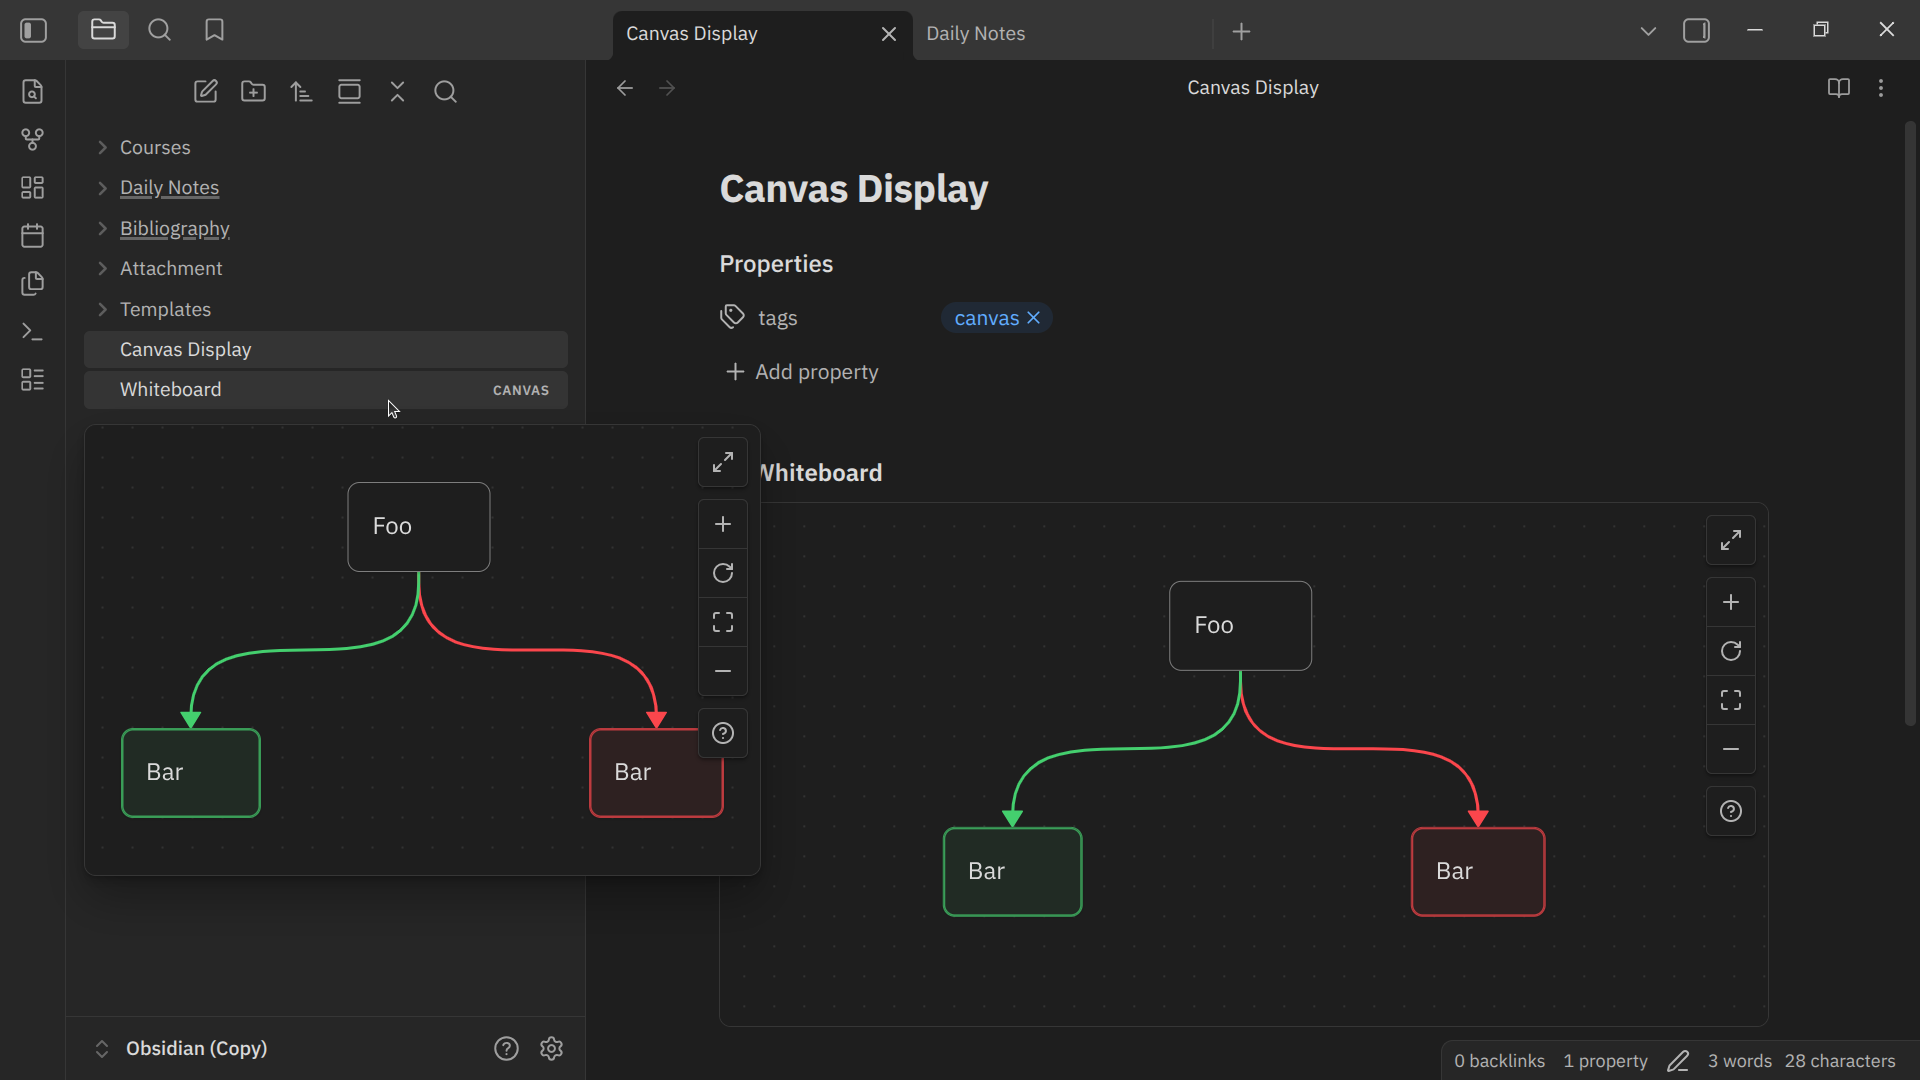
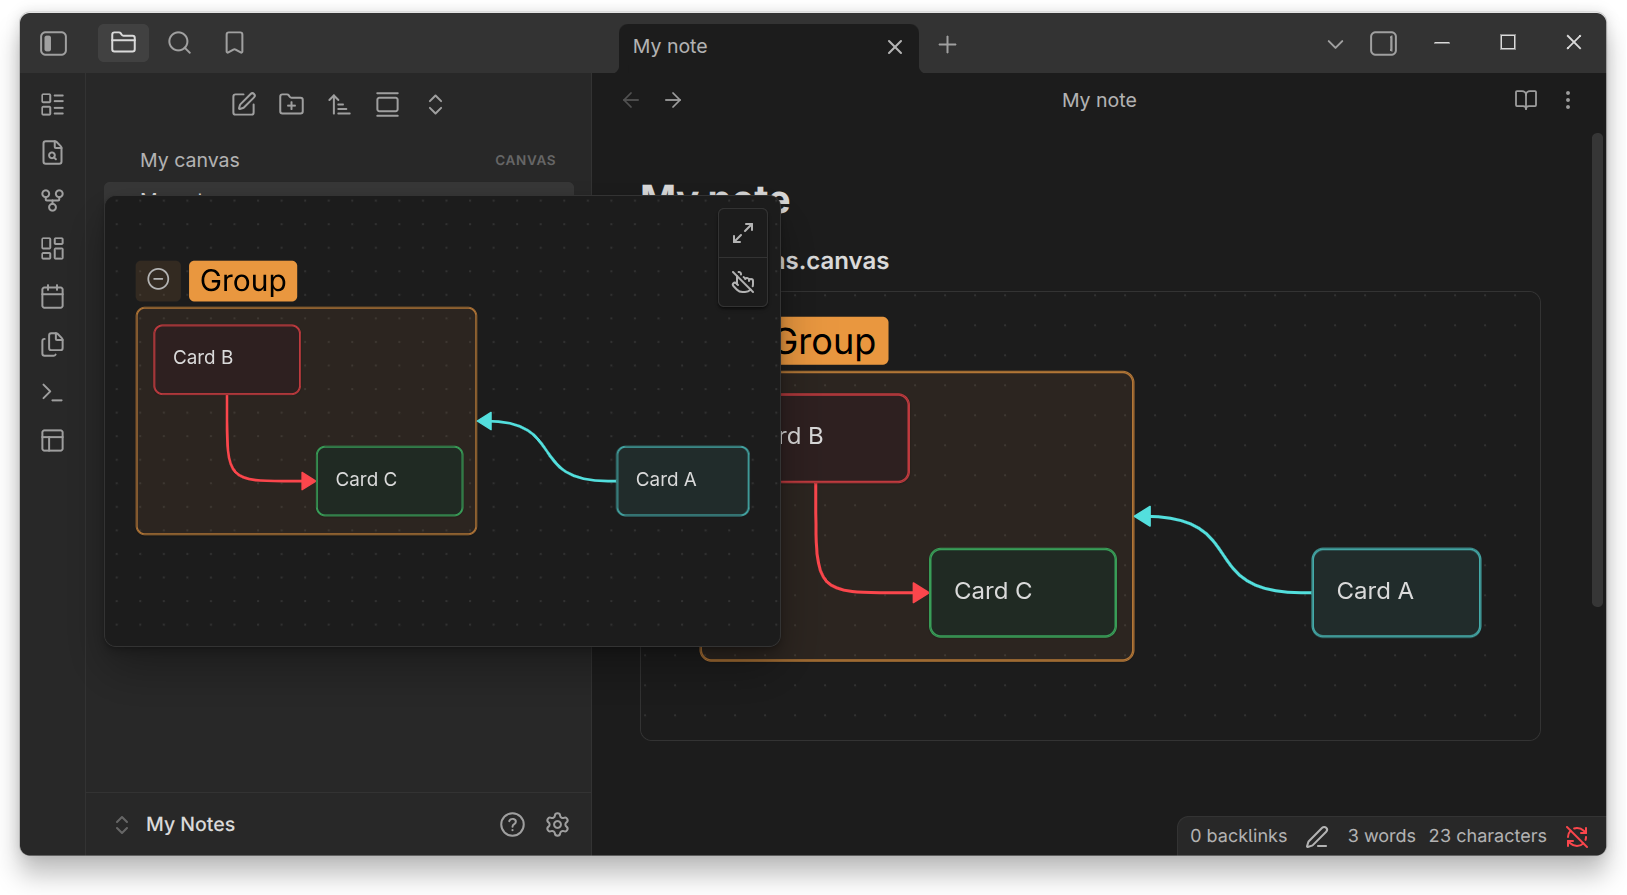
docs: update README for 1.0.0

diff --git a/README.md b/README.md
@@ -10,90 +10,255 @@ Give your embedded canvas better display and interactivity.
 >
 > Although this plugin already fulfills the need for a full preview of embedded canvas, I still strongly support including this feature as a built-in feature. Visit [here][embedded-canvas-fr] to give your support.
 
-## 🚀 Features
+> [!WARNING]
+>
+> This plugin uses monkey patch and accesses internal API to unlock features that cannot be provided using public API alone.
 
-- Give embedded canvas the same look as canvas view.
-- Navigate using panning and zooming to move across the canvas.
-- Adjust the height of the embedded canvas in the note.
-- Work on both page preview and canvas.
-- Display embedded canvas on exported PDF.
-- Support [Advanced Canvas][advanced-canvas] plugin.
+## Overview
 
-## 📦 Installation
+- **Canvas embedding**: Embed canvas or specific card while preserving original canvas view interface.
+- **Hover preview**: Preview canvas by hovering the cursor over a link or file.
+- **Basic interaction**: Navigate using panning and zooming across the canvas.
+- **Advanced canvas support**: Support advanced customization from [Advanced Canvas][advanced-canvas].
 
-- Manual
-    - Create a folder named `better-embedded-canvas` under `YOUR_VAULT_NAME/.obsidian/plugins`.
-    - Place `manifest.json`, `main.js`, and `style.css` from the latest release into the folder.
-    - Enable it through the "Community plugin" setting tab.
-- In-app
-    - Open settings.
-    - Choose "Community plugins" setting tab.
-    - Turn off "Restricted mode" if it was enabled before.
-    - Click "Browse" at "Community plugins" item.
-    - Type "Better Embedded Canvas" in the search box.
-    - Install and enable it.
-- Using [BRAT][].
+## Installation
 
-## ✍ Usage
+### In-app installation
 
-### Embedding
+1. Open settings.
+2. Choose "Community plugins" setting tab.
+3. Turn off "Restricted mode" if it was enabled before.
+4. Click "Browse" at "Community plugins" item.
+5. Type "Better Embedded Canvas" in the search box.
+6. Install and enable it.
 
-Use internal link prefixed with an exclamation mark (`!`) to embed a canvas. For example:
+### Manual installation
+
+1. Create a folder named `better-embedded-canvas` under `YOUR_VAULT_NAME/.obsidian/plugins`.
+2. Place `manifest.json`, `main.js`, and `style.css` from the latest release into the folder.
+3. Enable it through the "Community plugin" setting tab.
+
+### Using [BRAT][].
+
+## Features and Usage
+
+### Embed canvas in a note
+
+![embed-in-notes.gif](./assests/embed-in-notes.gif)
+
+You can embed a canvas in a note using the same way as [embedding notes and other files][obsidian-help-embeds]. To do that, use internal link prefixed with an exclamation mark (`!`):
 
 ```markdown
 ![[My canvas.canvas]]
 ```
 
-You can adjust the height of the canvas by adding a bar (`|`) and number to the link destination. For example:
+#### Adjust the height
+
+To adjust the height of an embedded canvas, add a vertical bar (`|`) followed by the length of the height:
 
 ```markdown
 ![[My canvas.canvas|500]]
 ```
 
-> [!Note]
+By default, the height will be adjusted to 300. Therefore, `![[My canvas.canvas]]` has the same result as `![[My canvas.canvas|300]]`.
+
+> [!NOTE]
 >
-> The minimum height of an embedded canvas is 300. The height adjusted below 300 will be rounded up to 300.
+> Currently, Better Embedded Canvas limits the minimum height to 300. Any canvas height adjusted to less than 300 will be rounded up to 300. Therefore, `![[My canvas.canvas|200]]` has the same result as `![[My canvas.canvas|300]]`.
 
-### Interaction
+#### Change the title
 
-You can interact with an embedded canvas in the same way as you do with a full canvas view. If you prefer no interaction, you can disable it by selecting hand pointer iconed button in the upper-right corner.
+The title of an embedded canvas is located at the top of the embed, prefixed with canvas icon (![lucide-layout-dashboard]).
 
-![no-interaction-canvas.png](./assests/no-interaction-canvas.png)
+By default, the title is the name of the canvas file. To change it, add a vertical bar (`|`) followed by the replacement title:
 
-To learn how to interact with canvas, refer [here][canvas-help].
+```markdown
+![[My canvas.canvas|My diagram]]
+```
 
-### Canvas name
+If you want to change the title while also adjusting the height, place the replacement title first then the height, separated by vertical bar (`|`):
 
-By default, the name of the embedded canvas is displayed as embed title. You can hide it by going to **Settings** → **Better Embedded Canvas**, then select **Show canvas name** and disable it.
+```markdown
+![[My canvas.canvas|My diagram|500]]
+```
 
-Canvas name is also draggable, meaning that you can copy-paste the embed just by doing drag-and-drop on your note, or open the full canvas in a new tab.
+You can also hide the title globally by disabling it under **Settings** → **Better Embedded Canvas** → **Show canvas title**.
 
-![draggable-canvas-name.gif](./assests/draggable-canvas-name.gif)
+#### Embed single card
 
-## ⚠ Limitation
+You can embed single card in a note instead of the whole canvas. To do that, add a hash (`#`) at the end of the link destination, followed by the card id:
 
-Embedded canvas cannot be edited directly. To do that, open the canvas directly.
+```markdown
+![[My canvas.canvas#00b6cc18e01988a6]]
+```
 
-## 🐞 Known issues
+You can adjust the title and the height by adding them after the card id.
 
-- [x] ~~Embedded canvas nodes are not positioned properly in exported PDF.~~
+```markdown
+With custom title:
+![[My canvas.canvas#00b6cc18e01988a6|My card]]
 
-## © Attribution
+With adjusted height:
+![[My canvas.canvas#00b6cc18e01988a6|500]]
+
+With both:
+![[My canvas.canvas#00b6cc18e01988a6|My card|500]]
+```
+
+Searching and typing card id manually can be very inconvinient. Therefore, Better Embedded Canvas provides autocompletion for that. To use autocompletion:
+1. Type a hash (`#`) at the end of the link destination (as mentioned before). Autocompletion popover will be shown right after that.
+2. You can search for specific card by the content of text card, the name of the group card, or the card id itself.
+3. Select the card you want to embed.
+
+> [!NOTE]
+>
+> Group card is suffixed with group icon (![lucide-group]) in autocompletion popover.
+
+#### Drag and drop functionality
+
+You can drag the title of an embedded canvas, then you can drop it on a tab header to open the canvas there, into an editor to insert it as a link, or into a canvas view to embed it as a card.
+
+### Embed a canvas in a canvas
+
+![embed-in-canvas.gif](./assests/embed-in-canvas.gif)
+
+You can embed a canvas in another canvas using the same way as [adding a card from a note][obsidian-help-canvas-add-note-card].
+
+To embed a canvas from your vault:
+1. Select or drag the document icon (![lucide-file-text]) at the bottom of the canvas.
+2. Select the canvas you want to embed.
+
+You can also embed a canvas from the canvas context menu:
+1. Right-click the canvas and then select **Add note from vault**.
+2. Select the canvas you want to embed.
+
+You can also drag a canvas from the File explorer, or an embedded canvas from a note, into the canvas.
+
+> [!WARNING]
+>
+> Try to avoid embedding a canvas in the canvas itself or any embedding that creates circular referencing as it can causes performance issue.
+
+### Preview a canvas
+
+![hover-preview.gif](./assests/hover-preview.gif)
+
+You can preview a canvas by hovering the cursor over an internal link to the canvas in Editing view, File explorer, Search, and more. The behavior of the preview depends on [Page preview][obsidian-help-page-preview] plugin.
+
+> [!NOTE]
+>
+> To preview a canvas, you first need to enable [Page preview][obsidian-help-page-preview] plugin.
+
+### Interact with an embedded canvas
+
+![interaction.gif](./assests/interaction.gif)
+
+You can interact with an embedded canvas the way [interacting with a canvas view][obsidian-help-canvas], with some limitations.
+
+> [!NOTE]
+>
+> Embedded canvas is set to read-only. Therefore, you cannot add, delete, edit, or move cards and connection lines. To do that, open canvas view instead.
+
+#### Select cards
+
+To select single card or cards, you can use any of the following approaches:
+- Select individual cards.
+- Drag a selection around multiple cards.
+- Add and remove cards from an existing selection by pressing <kbd>Shift</kbd> and selecting them.
+
+To scroll the content of a card, you first need to select it.
+
+> [!NOTE]
+>
+> You cannot use <kbd>Ctrl</kbd> <kbd>A</kbd> (or <kbd>Cmd</kbd> <kbd>A</kbd> on macOS) to select all cards.
+
+#### Pan canvas
+
+To pan an embedded canvas, you can use any of the following approaches:
+- Press <kbd>Space</kbd> and drag the canvas. It does not apply on canvas embedded within another canvas.
+- Drag the canvas using the middle mouse button (or tap on mobile).
+- Scroll the mouse to pan vertically, and press <kbd>Shift</kbd> while scrolling to pan horizontally.
+
+#### Zoom manually
+
+To zoom an embedded manually, press <kbd>Space</kbd> or <kbd>Ctrl</kbd> (or <kbd>Cmd</kbd> on macOS) and scroll using the mouse wheel. Or, select **Zoom in** (![lucide-plus]) and **Zoom out** (![lucide-minus]) from the zoom controls in the upper-right corner.
+
+#### Zoom to fit
+
+To zoom the canvas so that every item is visible, select **Zoom to fit** (![lucide-maximize]) from the zoom controls in the upper-right corner.
+
+#### Zoom to selection
+
+To zoom the canvas so that all selected items are visible, right-click selected card or cards and then select **Zoom to selection**.
+
+#### Reset zoom
+
+To change the zoom level back to the default, select **Reset zoom** (![lucide-rotate-cw]) from the zoom controls in the upper-right corner.
+
+#### Toggle interaction
+
+When interaction is disabled, the embedded canvas will prevent user from interacting with the canvas, including selecting cards, panning, and zooming.
+
+To toggle interaction, select pointing hand icon (![lucide-pointer]) in the upper-right corner. This will toggle interaction globally and save the current interaction state.
+
+#### Open in canvas view
+
+To open an embedded canvas in canvas view, select **Open canvas** (![lucide-maximize-2]) in the upper-right corner.
+
+### [Advanced Canvas][advanced-canvas] support
+
+![support-advanced-canvas.png](./assests/support-advanced-canvas.png)
+
+Embedded canvas includes some of Advanced Canvas' notable features (you need to enable Advanced Canvas plugin):
+- Card and connection line (node and edge) styling.
+- Collapsible group.
+- Portal.
+
+However, some of other features collide with Better Embedded Canvas' features:
+- Single card embed.
+- Single card link autocompletion.
+
+In the case of collided features, Better Embedded Canvas takes precedence over Advanced Canvas. This is simply because those collided features, i.e. single card embed and autocompletion, includes enhancement that Advanced Canvas does not have.
+
+Nevertheless, you can have Better Embedded Canvas and Advanced Canvas enabled simultaneously without expecting significant conflicts.
+
+> [!NOTE]
+>
+> Sometimes, right after enabling or disabling any of Better Embedded Canvas and Advanced Canvas, you will get a notification to reload all notes or to restart the app. It should only happen once until you enable or disable any of those two plugins.
+
+## Attribution
 
 This plugin includes some of the type definitions developed by [Michael Naumov][mnaoumov], [Fevol][fevol], and the others at [Obsidian Typings][obsidian-typings], with some adjustments. All their works are licensed under MIT.
 
-## 🙏 Acknowledgment
+## Acknowledgment
 
 Thanks to:
 - [Michael Naumov][mnaoumov], [Fevol][fevol], and the others at [Obsidian Typings][obsidian-typings].
+- [mika.dev][developer-mike] at [Advanced Canvas][advanced-canvas].
+
+[obsidian-help-canvas]: https://obsidian.md/help/plugins/canvas
+[obsidian-help-canvas-add-note-card]: https://obsidian.md/help/plugins/canvas#Add+cards+from+notes
+[obsidian-help-embeds]: https://obsidian.md/help/embeds
+[obsidian-help-links]: https://obsidian.md/help/links
+[obsidian-help-links-heading]: https://obsidian.md/help/links#Link+to+a+heading+in+a+note
+[obsidian-help-page-preview]: https://obsidian.md/help/plugins/page-preview
 
 [BRAT]: https://github.com/TfTHacker/obsidian42-brat
 [advanced-canvas]: https://community.obsidian.md/plugins/advanced-canvas
-[canvas-help]: https://obsidian.md/help/plugins/canvas
 [obsidian-typings]: https://github.com/obsidian-typings/obsidian-typings
 [mnaoumov]: https://github.com/mnaoumov
 [fevol]: https://github.com/Fevol
+[developer-mike]: https://github.com/Developer-Mike
 [embedded-canvas-fr]: https://forum.obsidian.md/t/show-a-complete-preview-of-the-canvas-including-text-when-a-canvas-is-embedded-in-a-note/51614
+
+[lucide-file-text]: https://unpkg.com/lucide-static@latest/icons/file-text.svg
+[lucide-group]: https://unpkg.com/lucide-static@latest/icons/group.svg
+[lucide-layout-dashboard]: https://unpkg.com/lucide-static@latest/icons/layout-dashboard.svg
+[lucide-maximize]: https://unpkg.com/lucide-static@latest/icons/maximize.svg
+[lucide-maximize-2]: https://unpkg.com/lucide-static@latest/icons/maximize-2.svg
+[lucide-minus]: https://unpkg.com/lucide-static@latest/icons/minus.svg
+[lucide-plus]: https://unpkg.com/lucide-static@latest/icons/plus.svg
+[lucide-pointer]: https://unpkg.com/lucide-static@latest/icons/pointer.svg
+[lucide-rotate-cw]: https://unpkg.com/lucide-static@latest/icons/rotate-cw.svg
 
 [latest-version]: https://img.shields.io/github/manifest-json/v/kotaindah55/better-embedded-canvas?label=version&link=https%3A%2F%2Fgithub.com%2Fkotaindah55%2Fbetter-embedded-canvas%2Freleases
 [current-downloads]: https://img.shields.io/badge/dynamic/json?url=https%3A%2F%2Fgithub.com%2Fobsidianmd%2Fobsidian-releases%2Fraw%2Frefs%2Fheads%2Fmaster%2Fcommunity-plugin-stats.json&query=%24.better-embedded-canvas.downloads&label=downloads&color=green
